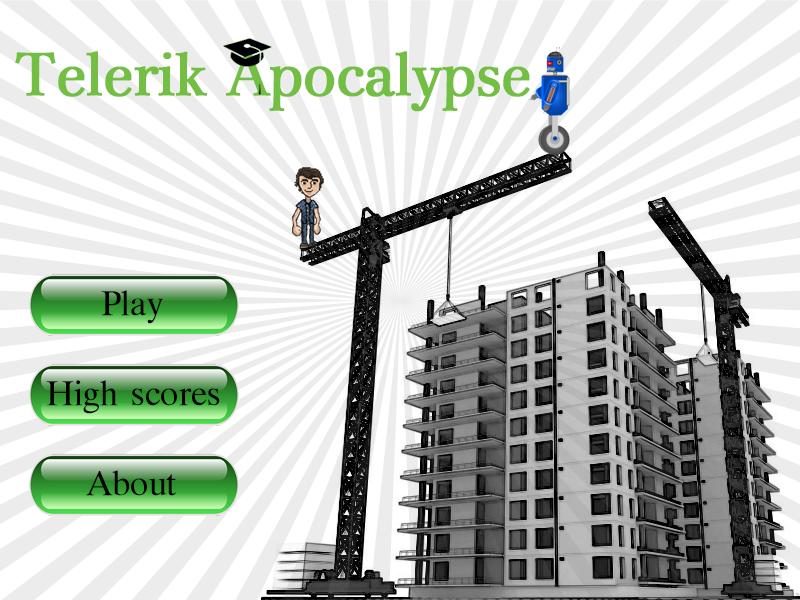
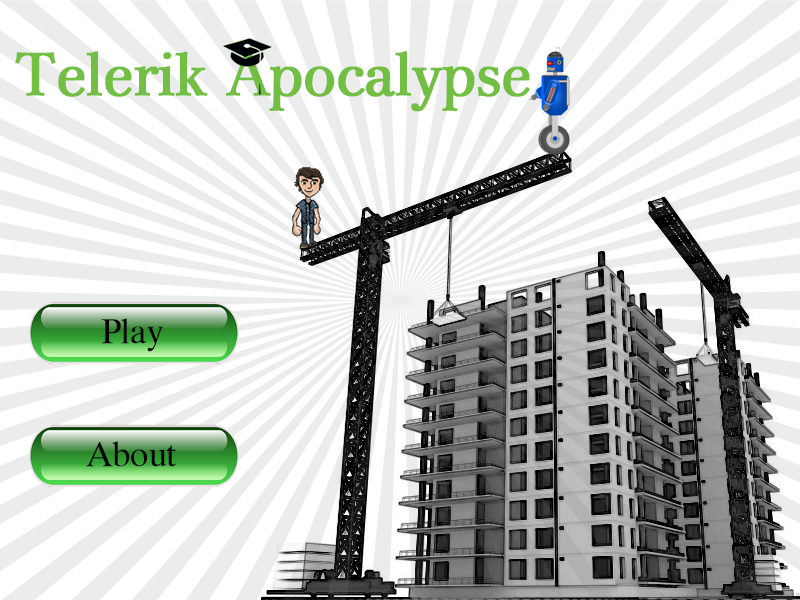
Removed the option for high scores
Removed high score button addition, updated styles, removed empty
HighScore script

Changed region(s): [[0.0312, 0.45, 0.3125, 0.87]]

diff --git a/PhaserTest/scripts/menu.js b/PhaserTest/scripts/menu.js
@@ -1,6 +1,6 @@
 var Menu = function() {
         var divIdName = 'game-menu',
-            buttonsIdNames = ['btn-play', 'btn-highscores', 'btn-about'],
+            buttonsIdNames = ['btn-play', 'btn-about'],
             buttonsIdNamesLen = buttonsIdNames.length;
 
         // document.body.onload = addMenu;
@@ -40,12 +40,6 @@ var Menu = function() {
             });
 
             buttonIdName = buttonsIdNames[1];
-            $('#' + buttonIdName).on('click', function() {
-                // probably should remove div from DOM
-                // Show High scores
-            });
-
-            buttonIdName = buttonsIdNames[2];
             $('#' + buttonIdName).on('click', function() {
                 // probably should remove div from DOM
                 // Show About

diff --git a/PhaserTest/styles/style.css b/PhaserTest/styles/style.css
@@ -38,15 +38,11 @@ body {
 }
 
 #btn-play {
-    top: 280px;
-}
-
-#btn-highscores {
-    top: 370px;
+    top: 310px;
 }
 
 #btn-about {
-    top: 460px;
+    top: 430px;
 }
 
 #story {
